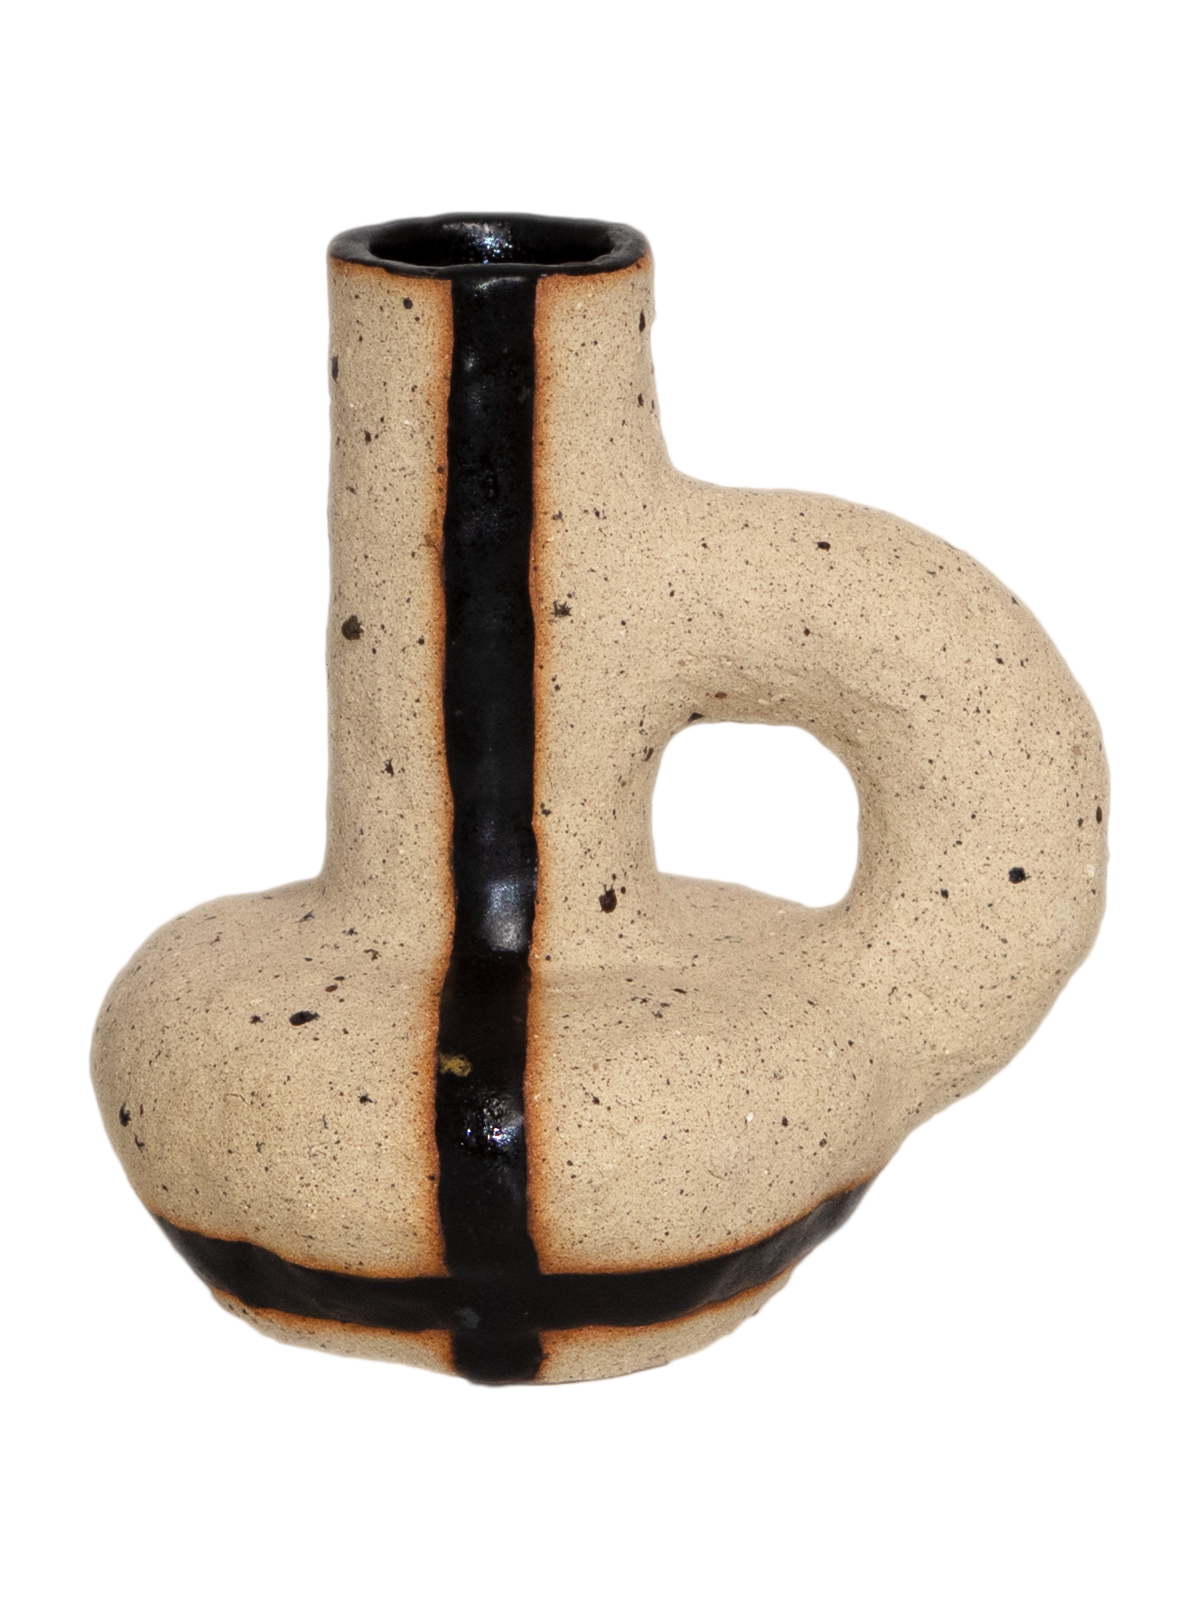
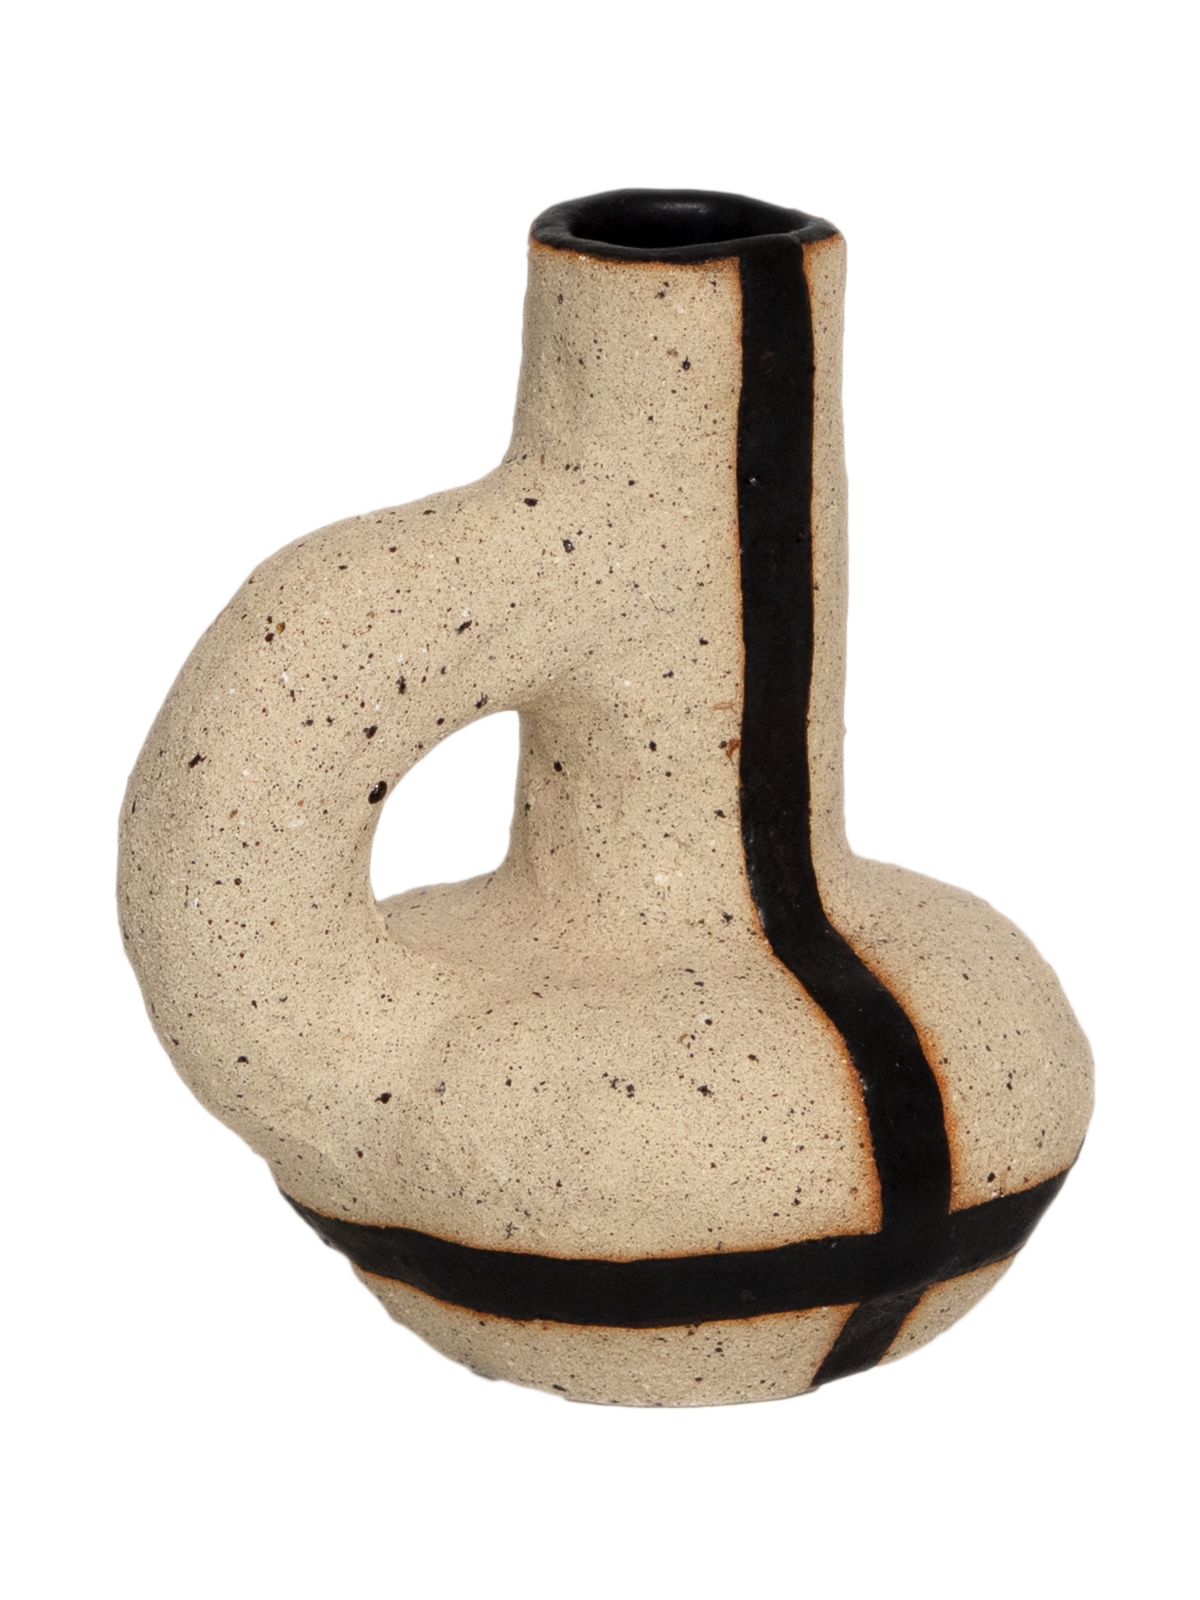
Add JAE-DAN_MINI_01 new right angle, restore back below main
- Add the newly shot right-angle photo for MINI_01
- Reintroduce a "back" slot in the product detail layout, positioned
  below the left/main/right row (only renders when a product has one)

diff --git a/css/style.css b/css/style.css
@@ -223,20 +223,29 @@ main {
   opacity: 1;
 }
 
-/* Product detail — main이 중앙, left/right이 양옆에 모두 동일한 크기로 대칭 배치 */
+/* Product detail — main이 중앙, left/right이 양옆에 동일한 크기로 대칭 배치, back(있으면)은 그 아래에 */
 .product-layout {
   display: flex;
-  justify-content: center;
+  flex-direction: column;
   align-items: center;
-  flex-wrap: wrap;
   gap: 32px;
   max-width: 1200px;
   margin: 0 auto;
 }
 
+.product-layout__row {
+  display: flex;
+  justify-content: center;
+  align-items: center;
+  flex-wrap: wrap;
+  gap: 32px;
+  width: 100%;
+}
+
 .product-layout__main,
 .product-layout__left,
-.product-layout__right {
+.product-layout__right,
+.product-layout__back {
   flex: 0 1 320px;
 }
 

diff --git a/js/main.js b/js/main.js
@@ -33,9 +33,12 @@ function renderProductDetail(containerId) {
 
   container.innerHTML = `
     <div class="product-layout">
-      ${slot("left", "left")}
-      ${slot("main", "main")}
-      ${slot("right", "right")}
+      <div class="product-layout__row">
+        ${slot("left", "left")}
+        ${slot("main", "main")}
+        ${slot("right", "right")}
+      </div>
+      ${slot("back", "back")}
     </div>
     <div class="product-detail__caption">
       <div>

diff --git a/js/products-data.js b/js/products-data.js
@@ -19,6 +19,7 @@ const PRODUCTS = [
     main: "mini01-main.png",
     left: "mini01-left.png",
     right: "mini01-right.png",
+    back: "mini01-back.png",
   },
   {
     id: "mini02",
